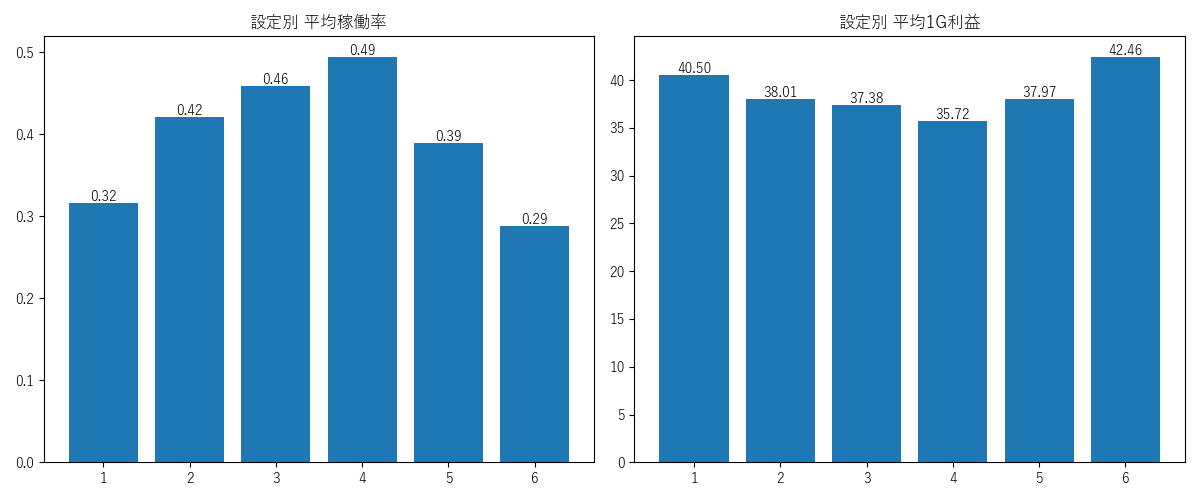
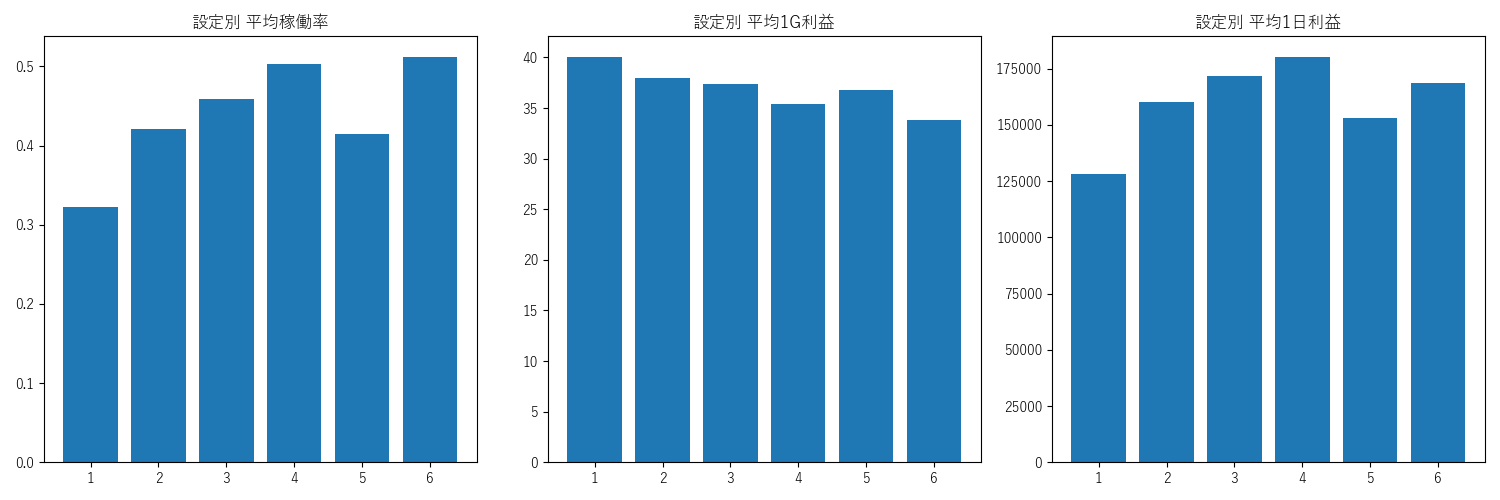
Update README and figures

diff --git a/README.md b/README.md
@@ -1,14 +1,18 @@
 # スロット（ジャグラー）設定分析ポートフォリオ
 
 ## ■ 背景・目的
-スロット店舗運営においては、利益の最大化と同時に
-継続的な集客（稼働）の維持が重要である。
+スロット店舗運営においては、
+**利益の最大化と集客（稼働）の維持**の両立が求められる。
 
-しかし、高設定を増やすと利益は低下し、
-低設定を増やすと稼働が低下するというトレードオフが存在する。
+しかし実際には、
 
-本分析では、このトレードオフを定量的に可視化し、
-最適な設定配分を導くことを目的とする。
+- 高設定を増やす → 稼働は上がるが利益は低下
+- 低設定を増やす → 利益は上がるが稼働は低下
+
+という明確なトレードオフが存在する。
+
+本分析ではこの構造を定量的に可視化し、
+**戦略別に最適な設定配分を導くこと**を目的とする。
 
 ---
 
@@ -22,92 +26,199 @@
 ## ■ 指標定義
 ・投入枚数 = 回転数 × 3  
 ・利益 = (投入 - 払出) × 20円  
+・1Gあたり利益 = 利益 ÷ 回転数  
+・稼働率 = 実稼働 / 最大稼働  
+
+※異常値（データ異常フラグ）は除外
 
 ---
 
 ## ■ 分析内容
-・設定推定  
-・設定別の稼働率・利益分析  
-・店舗別比較  
-・イベント別分析（設定配分・稼働）  
+
+### ① 設定別分析
+設定ごとの以下を算出：
+- 稼働率
+- 1Gあたり利益
+- 1日利益
+
+---
+
+### ② 店舗別分析
+店舗ごとの
+- 稼働率
+- 利益効率
+
+---
+
+### ③ イベント分析
+- 店舗×イベントごとの設定配分
+- イベント時の稼働変化
+
+---
+
+### ④ 相関分析（構造理解）
+稼働率と利益効率の相関を分析
+
+→ トレードオフ構造の定量化
+
+---
+
+### ⑤ イベント効果分析（差分）
+通常営業と比較し、
+
+- 稼働の増減
+- 利益の増減
+
+を算出
+
+---
+
+### ⑥ 分散分析（安定性）
+設定ごとの標準偏差を算出し、
+
+- 安定している設定
+- ブレやすい設定
+
+を特定
+
+---
+
+### ⑦ 最適配分シミュレーション
+以下5パターンで設定配分を最適化：
+
+- 利益最大
+- 稼働最大
+- 利益70：稼働30
+- 利益30：稼働70
+- イベント還元（利益最小）
 
 ---
 
 ## ■ 分析結果
 
-### ■ 設定別分析
-高設定は稼働を向上させる一方、利益効率が低い傾向が確認された。  
-低設定は利益効率が高いが、稼働が低い傾向が見られた。  
-
-→ 稼働率と利益効率には明確なトレードオフが存在する。
-
-![設定別分析](images/Figure_1.png)
+### ■ トレードオフの存在
+稼働率と利益効率には負の相関が確認され、
+両立が難しい構造が明確になった。
 
 ---
 
-### ■ 店舗別分析
-店舗ごとに稼働率および利益効率に差が見られ、
-運用方針や集客力の違いが示唆された。
+### ■ 設定別の特徴
 
-![店舗別分析](images/Figure_2.png)
-
----
-
-### ■ イベント分析①（設定配分）
-イベントごとの設定配分を分析した結果、
-店舗ごとに設定投入戦略が異なることが確認された。
-
-一部店舗では特定日に高設定比率が上昇している一方、
-配分変化が小さい店舗も存在した。
-
-![設定配分](images/Figure_3.png)
+- 設定6：高稼働だが利益効率が低い（広告的役割）
+- 設定4：稼働・利益ともに安定
+- 設定5：平均は中間だが分散が大きく不安定
 
 ---
 
-### ■ イベント分析②（稼働比較）
-同一イベント条件下でも店舗間で稼働率に差が見られ、
-イベント運用や集客力の違いが確認された。
+### ■ 設定5の特徴（重要）
 
-![稼働率比較](images/Figure_4.png)
+設定5は
+
+- 高設定ほど信頼されない
+- 低設定ほど避けられない
+
+ため、ユーザー行動が不安定になり、
+**結果のばらつき（分散）が大きい設定**であることが確認された。
+
+---
+
+### ■ イベント効果
+
+イベント時は
+
+- 稼働は上昇
+- 利益は低下
+
+→ 集客と利益のトレードオフが明確に確認された
 
 ---
 
 ## ■ 考察
-設定5が想定されるポジションから外れる結果となった。
 
-要因として以下が考えられる：
-・サンプル数不足による統計的ブレ  
-・設定推定の誤差  
-・ユーザー行動の影響  
+### ■ 設定は「期待値×分散」で評価すべき
 
-また、イベント分析からは、
-店舗ごとに「設定投入型」と「集客型」の違いが存在する可能性が示唆された。
+従来の平均値ベースではなく、
+
+- 平均（期待値）
+- 分散（リスク）
+
+の両面から評価することで、
+より実務的な意思決定が可能となる。
+
+---
+
+### ■ 設定5の位置づけ
+
+設定5はバランス設定ではなく、
+
+> 「結果の不確実性を持つリスク設定」
+
+と定義できる。
+
+そのため、
+
+- 常用には不向き
+- イベント等での限定使用が有効
+
+---
+
+### ■ RB確率による“高設定演出”
+
+ジャグラーにおいては、
+
+- BB：出玉
+- RB：設定示唆
+
+という認識があり、
+
+RB確率を上げることで高設定の印象を与えつつ、
+機械割の低い設定（4〜5）でリスクコントロールする戦略が有効と考えられる。
 
 ---
 
 ## ■ 結論
-設定4〜5がバランス良いが、
-設定5は不安定なため優先度を下げた。
 
-そのため、以下の配分を最適とした：
+戦略に応じて最適配分は変化するが、
 
-・設定6：2台  
-・設定4：5台  
-・設定1：3台  
+- 安定運用：設定4中心
+- 集客重視：設定6
+- リスク運用：設定5（限定使用）
 
-この配分により稼働率45.0%・推定利益約169万円を想定。  
-全台低設定比較で利益は約27%向上し、  
-全台高設定比較で稼働率は約12%低下するが、  
-利益とのバランスを考慮すると最適な配分と考えられる。
+といった使い分けが有効である。
+
+本分析では、
+**単一の最適解ではなく、複数の戦略別最適解を提示した。**
+
+---
+
+## ■ 可視化
+
+### 設定別分析
+![Figure_1](images/Figure_1.png)
+
+### 店舗別分析
+![Figure_2](images/Figure_2.png)
+
+### 設定配分（イベント）
+![Figure_3](images/Figure_3.png)
+
+### イベント別稼働
+![Figure_4](images/Figure_4.png)
+
+### 相関分析
+![Figure_5](images/Figure_5.png)
+
+### 分散分析
+![Figure_6](images/Figure_6.png)
 
 ---
 
 ## ■ 今後の改善
-・データ期間の拡張  
-・設定推定精度の向上  
-・小役を含めた利益計算  
 
----
+- データ期間の拡張
+- 設定推定精度の向上
+- 小役データを含めた分析
+- 店舗別戦略の最適化
 
 ## ■ データ
 https://docs.google.com/spreadsheets/d/1i25K-KmSeRso_6VpVCPcWTihd73xr2IbcWed3ngXfis/edit?usp=sharing
